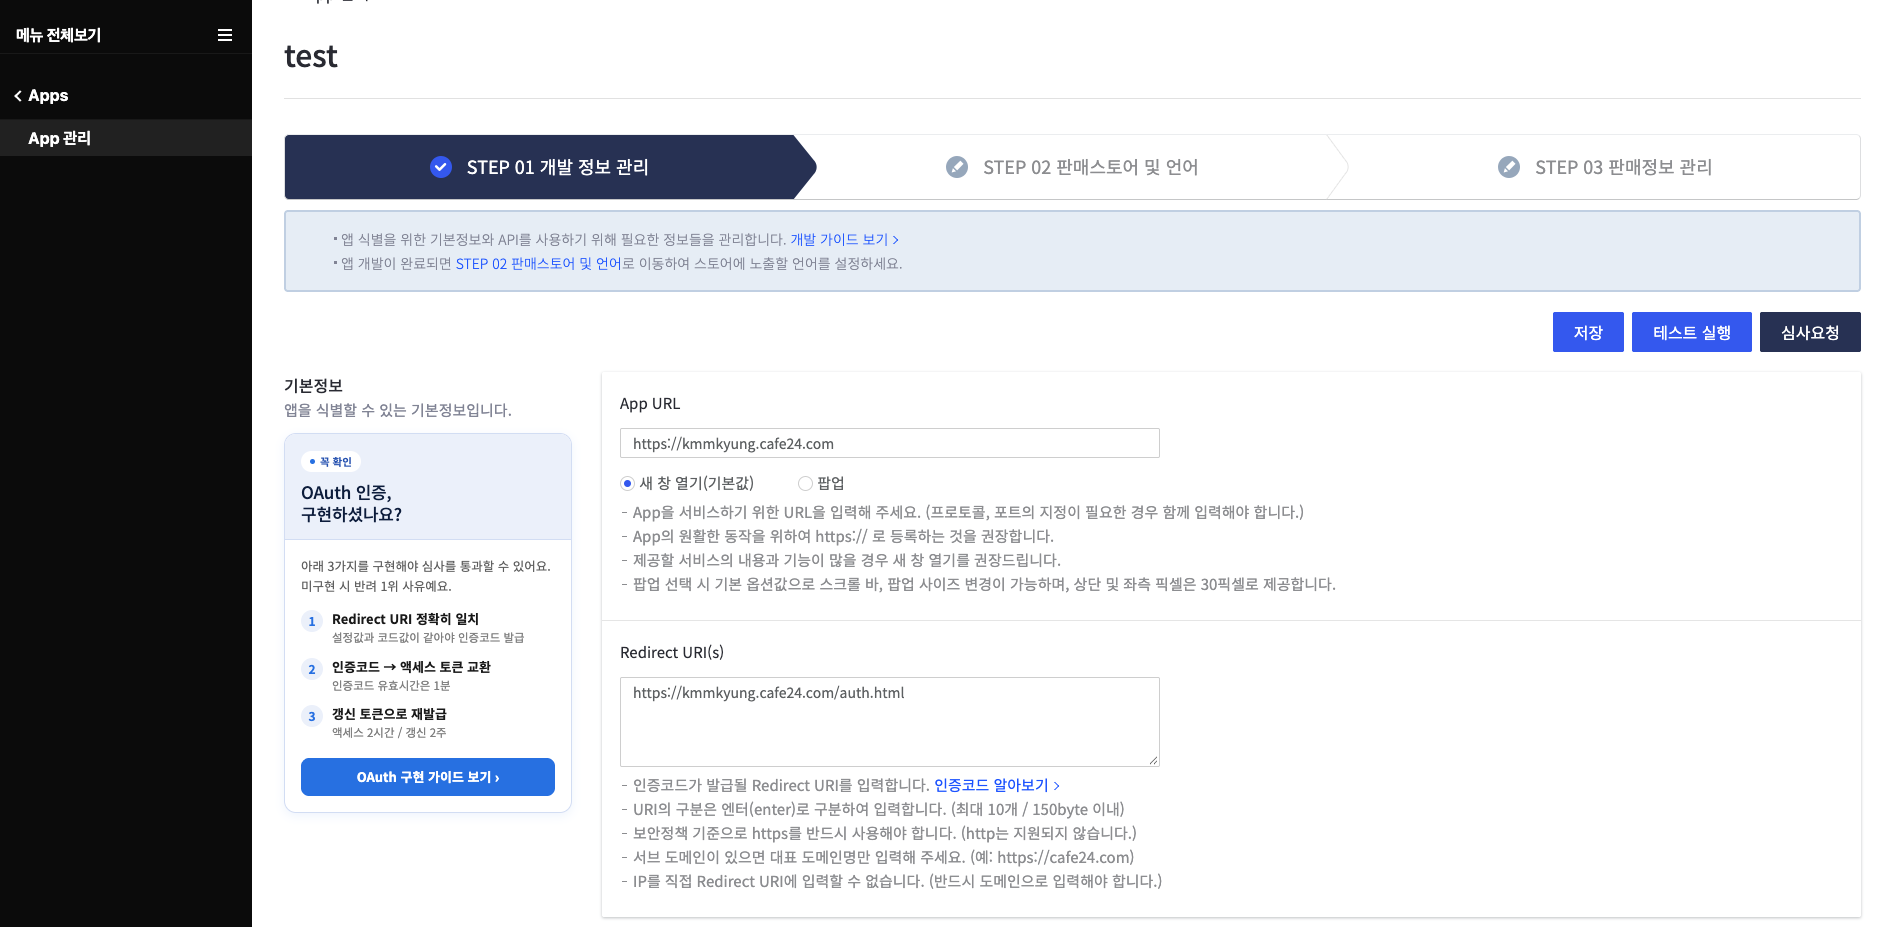
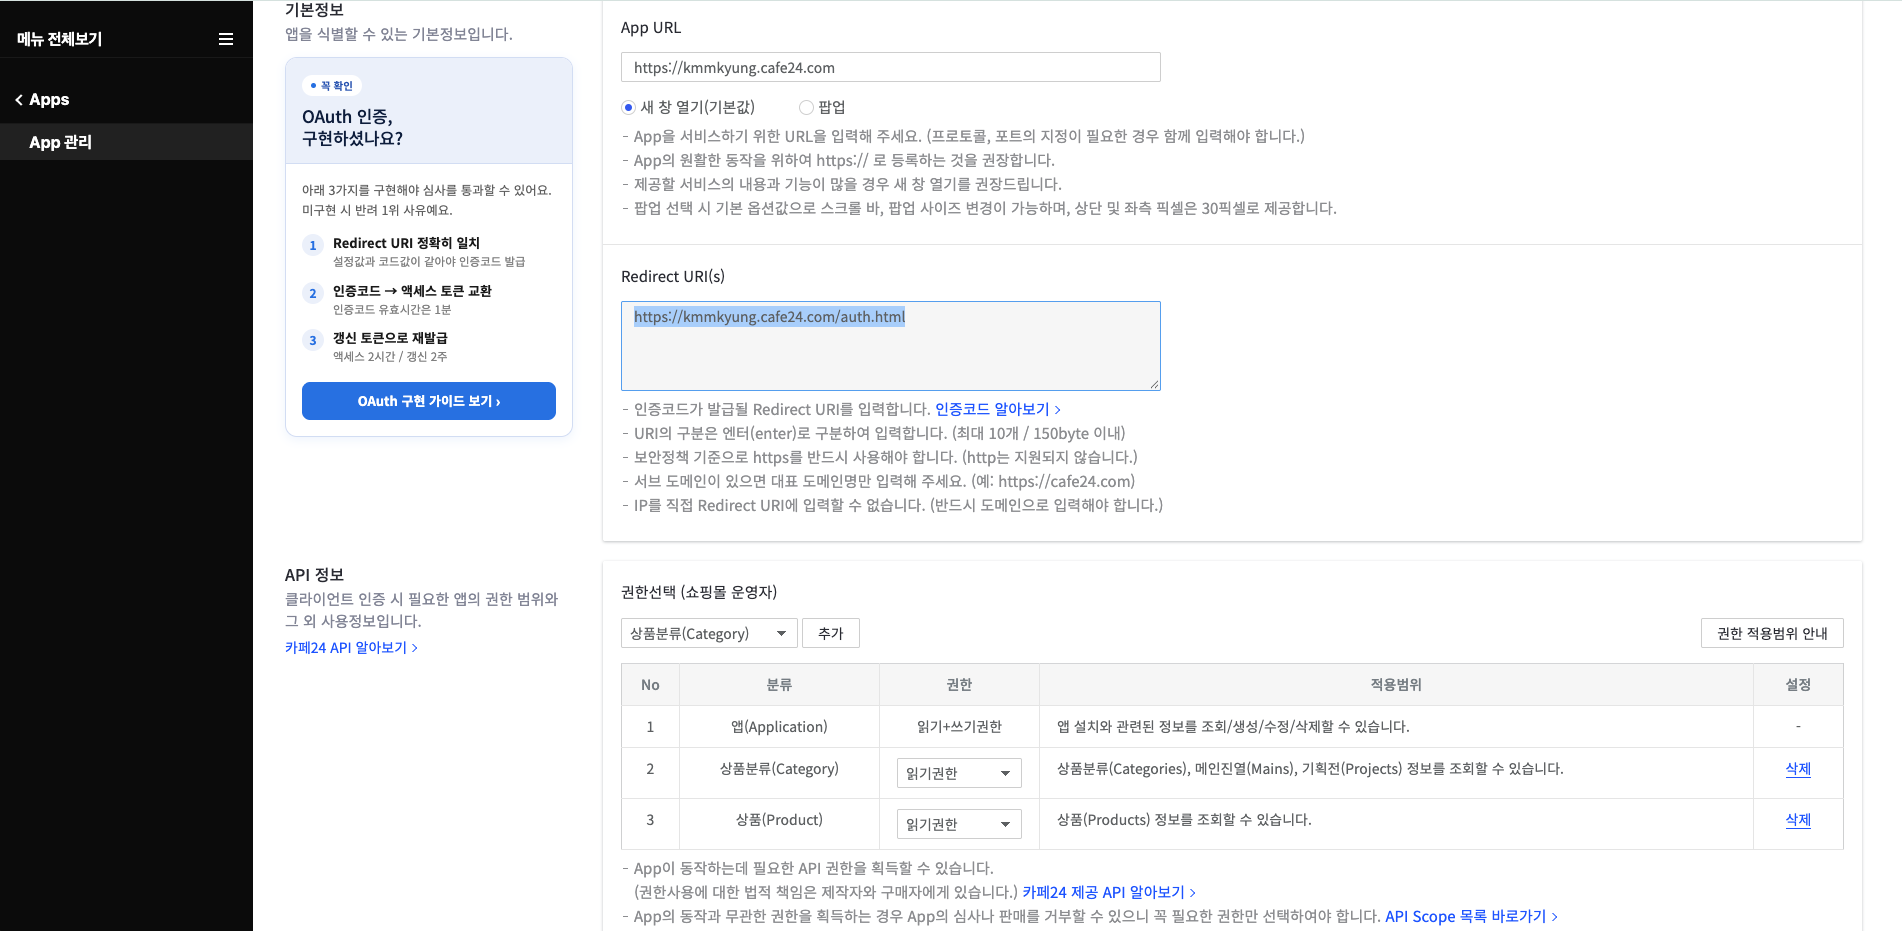
s

diff --git a/Cafe24/1. cafe24-1.md b/Cafe24/1. cafe24-1.md
@@ -12,7 +12,8 @@ admin 페이지에서 디자인 > 디자인FTP 에서 ftp를 신청해 접속할
 ## Admin API / Front API
 카페24에서 제공하는 API는 크게 Admin API와 Front API로 나뉜다. Admin API는 쇼핑몰 운영(상품·주문·회원 관리 등)에 대한 기능을,
 Front API는 쇼핑몰의 프론트단에서 사용되는 기능을 제공한다.
-Admin API는 Client Secret으로 토큰을 발급받아 호출하므로 백엔드 서버가 있어야 한다(Secret을 프론트에 노출하면 안 되기 때문). 하지만 내가 필요한 값은 Front API가 가지고 있어 Front API를 사용하기로 했다.
+Admin API는 Client Secret으로 토큰을 발급받아 호출하므로 백엔드 서버가 있어야 한다(Secret을 프론트에 노출하면 안 되기 때문).
+내가 필요한 값은 Front API가 가지고 있어 Front API를 사용하기로 했다.
 * cafe24 developer
 https://developers.cafe24.com/
 
@@ -20,14 +21,39 @@ https://developers.cafe24.com/
 https://apidocs.cafe24.com/docs/guide/intro
 
 ### 시작하기
-로그인 후, CAFE24 Developer Apps 대시보드로 이동 후 좌측 메뉴에서 Apps > App 관리에서 앱을 새로 만든다.
+로그인 → CAFE24 Developer Apps 대시보드로 이동 → 좌측 메뉴에서 Apps > App 관리에서 앱을 새로 만든다.
 ![앱 생성 화면](./images/app-create.png)
 
-앱이 만들어지면 개발 정보 화면 주소에 Api를 연결하기 위해 필요한  key를 얻을 수 있다.
+앱이 만들어지면 개발 정보 화면 주소에 Api를 연결하기 위해 필요한 key를 얻을 수 있다.
 1. Client ID
 2. Client Secret Key
 3. Front API Key
 4. Service Key
-![앱 키 화면](./images/app-key1.png)
+![STEP1](./images/app-key1.png);
+![STEP2](./images/app-key2.png);
 
-![앱 키 화면](./images/app-key2.png)
+### 개발 정보 설정 (STEP1)
+#### App URL / Redirect URI
+- App URL: 앱이 열릴 주소
+  https://{mall_id}.cafe24.com
+- Redirect URI: 인증 코드가 돌아올 주소
+  https://{mall_id}.cafe24.com/auth.html 등 /뒤 본인이 임의로 적는다.
+* 프로토콜을 포함해 적어야 함
+
+#### 권한 선택 (쇼핑몰 운영자)
+조회할 API를 선택하면 된다.
+현재 난 필요한 상품분류(Category)/상품(Product)을 추가했다.
+* 읽기권한으로 선택(쓰기 권한은 필요 없음)
+* 권한을 추가하지 않으면 조회가 허용되지 않는다.
+
+#### 테스트 실행
+상단 테스트 실행을 클릭 해 테스트 할 수 있다.
+쇼핑몰 아이디({mall_id}) 입력 → 실행
+* 새 탭으로 페이지가 열리며 주소에 mall_id, timestamp, hmac 같은 값이 있다.
+* 테스트 실행이므로 앱 주소가 열릴 뿐. 데이터에 접근하려면 쇼핑몰 운영자의 접근 허용이 따로 필요하다!
+
+
+#### OAuth
+![STEP3](./images/OAuth.png);
+https://kmmkyung.cafe24api.com/api/v2/oauth/authorize?response_type=code&client_id=d1KO9mrzEdeWxp3cdmwzRF&state=test
+&redirect_uri=https://kmmkyung.cafe24.com/auth.html&scope=mall.read_category,mall.read_product,mall.read_collection,mall.read_analytics
